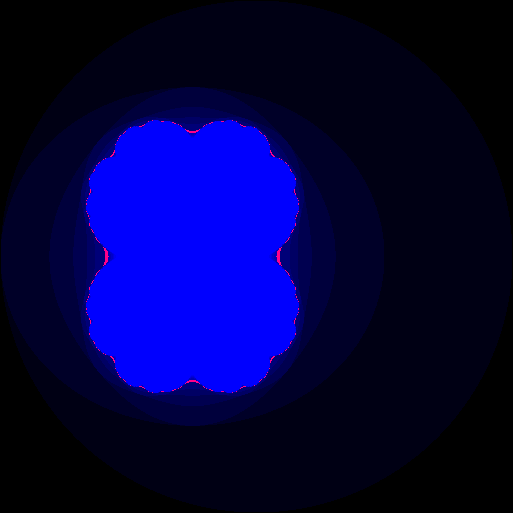
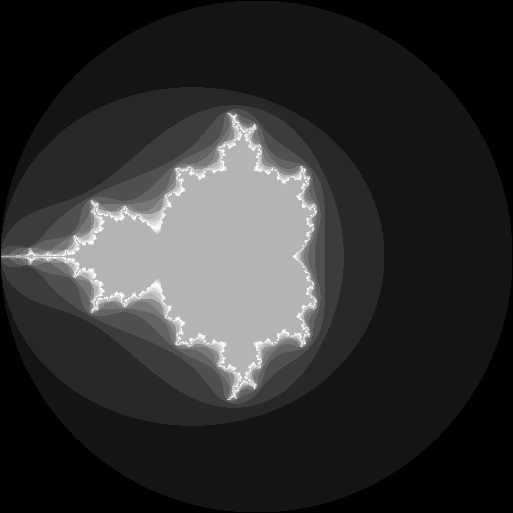
the Mandelbrot set
the Mandelbrot set

diff --git a/mandelbrot.py b/mandelbrot.py
@@ -12,28 +12,33 @@ values = []
 count = 0
 
 color1 = (0,0,0)
-color2 = (0,0,20)
-color3 = (0,0,40)
-color4 = (0,0,60)
-color5 = (0,0,80)
-color6 = (0,0,100)
-color7 = (0,0,120)
-color8 = (0,0,140)
-color9 = (0,0,180)
-color10 = (0,0,200)
-color11 = (0,0,220)
-color12 = (0,0,240)
-color13 = (0,0,260)
-color14 = (0,0,280)
-
+color2 = (20,20,20)
+color3 = (40,40,40)
+color4 = (60,60,60)
+color5 = (80,80,80)
+color6 = (100,100,100)
+color7 = (120,120,120)
+color8 = (140,140,140)
+color9 = (180,180,180)
+color10 = (200,200,200)
+color11 = (220,220,220)
+color12 = (240,240,240)
+color13 = (255,255,255)
+color14 = (240,240,240)
+color15 = (220,220,220)
+color16 = (200,200,200)
+color17 = (180,180,180)
+color18 = (180,180,180)
 
 def mandelbrot(a,b):
-	# global color1, color2, color3, color4, color5, color6, color7, color8, color9, color10, color11, color12, color13, color14, re_coef, ima_coef, count
-	global count
-	if count > 13:
-		return color14
+	global color1, color2, color3, color4, color5, color6, color7, color8, color9, color10, color11, color12, color13, color14, color15, color16, color17, color18, re_coef, ima_coef, count, check
+	if count > 16:
+		return color18
 
-	elif (a**2 + b**2) >= 4:
+
+
+	if (a**2 + b**2) >= 4:
+
 		if count == 0:
 			return color1
 		elif count == 1:
@@ -46,23 +51,30 @@ def mandelbrot(a,b):
 			return color5
 		elif count == 5:
 			return color6
-		elif count == 7:
+		elif count == 6:
 			return color7
-		elif count == 8:
+		elif count == 7:
 			return color8
-		elif count == 9:
+		elif count == 8:
 			return color9
-		elif count == 10:
+		elif count == 9:
 			return color10
-		elif count == 11:
+		elif count == 10:
 			return color11
-		elif count == 12:
+		elif count == 11:
 			return color12
-		elif count == 13:
+		elif count == 12:
 			return color13
-
+		elif count == 13:
+			return color14
+		elif count == 14:
+			return color15
+		elif count == 15:
+			return color16
+		elif count == 16:
+			return color17
 	count += 1
-	return mandelbrot(a**2 - b**2 + a, 2*a*b + b)
+	return mandelbrot((a**2 - b**2 + re_coef), (2*a*b + ima_coef))
 
 
 
